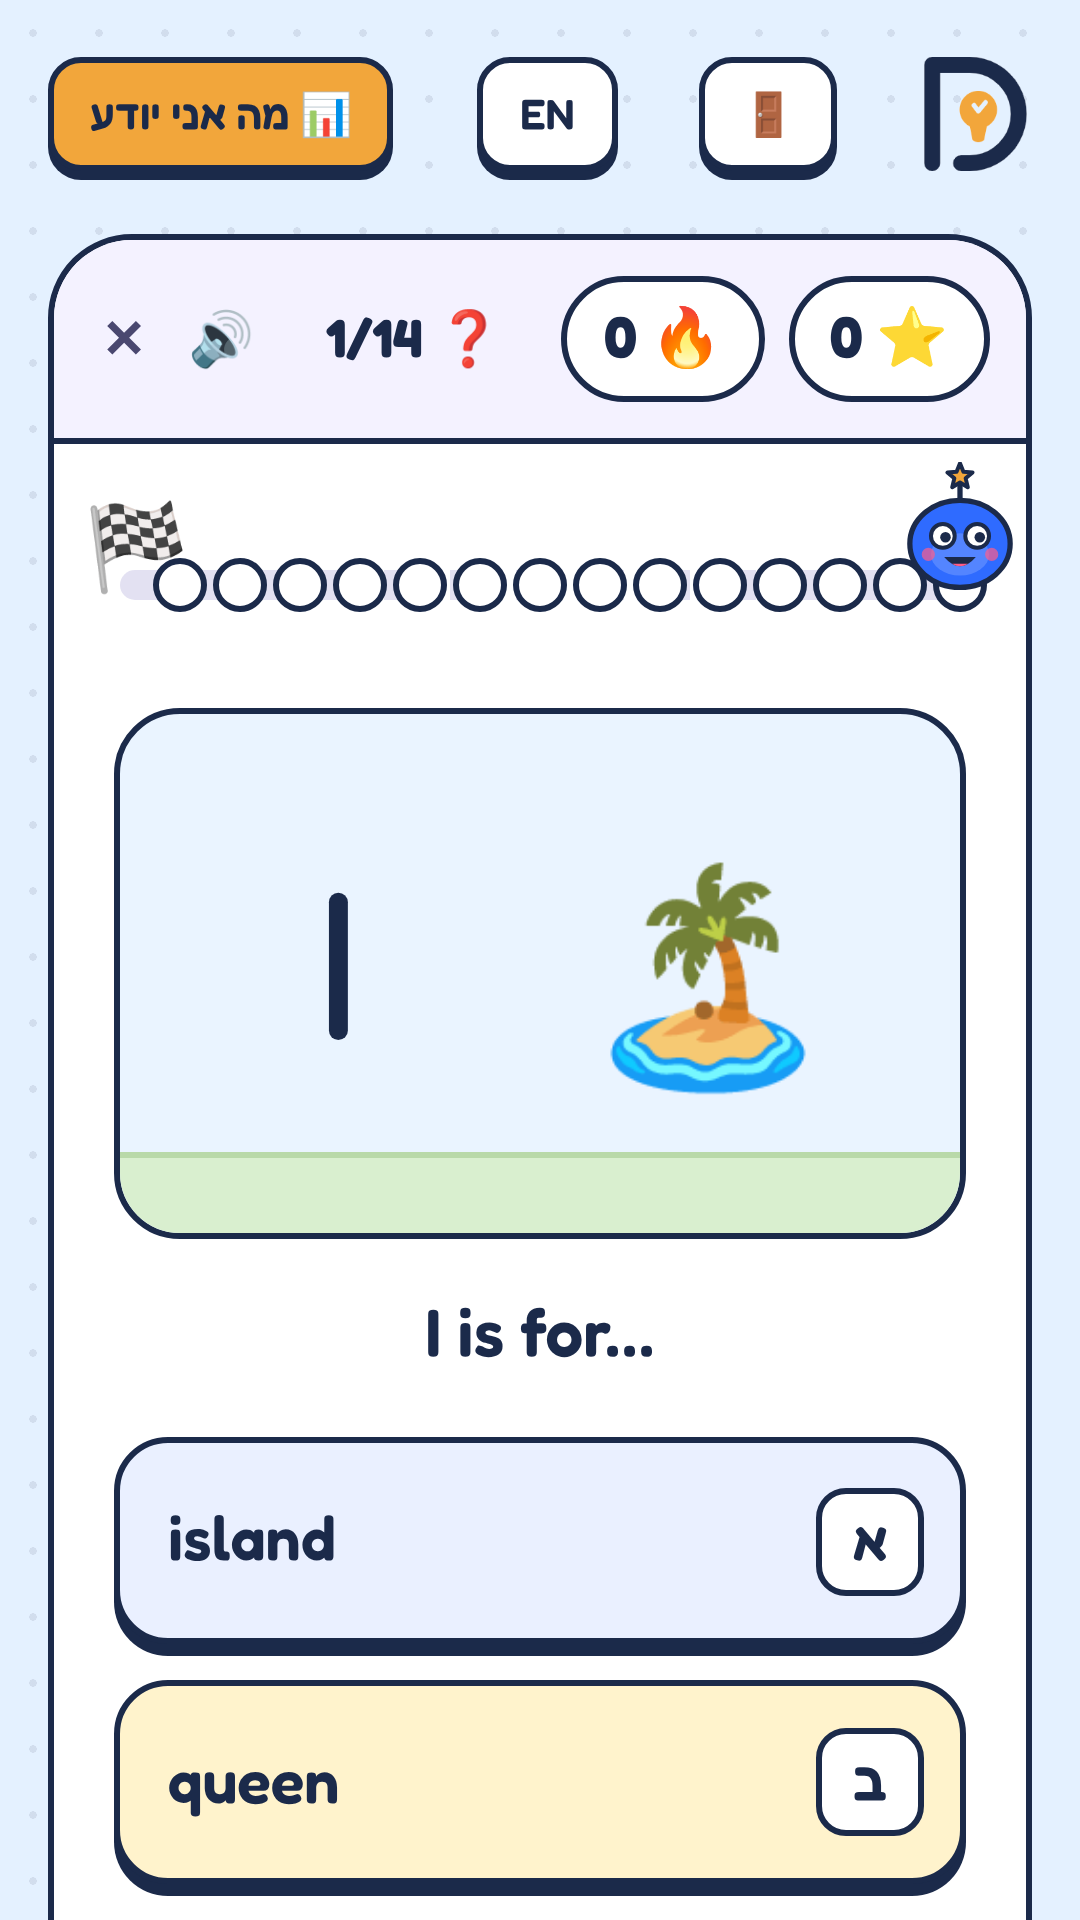
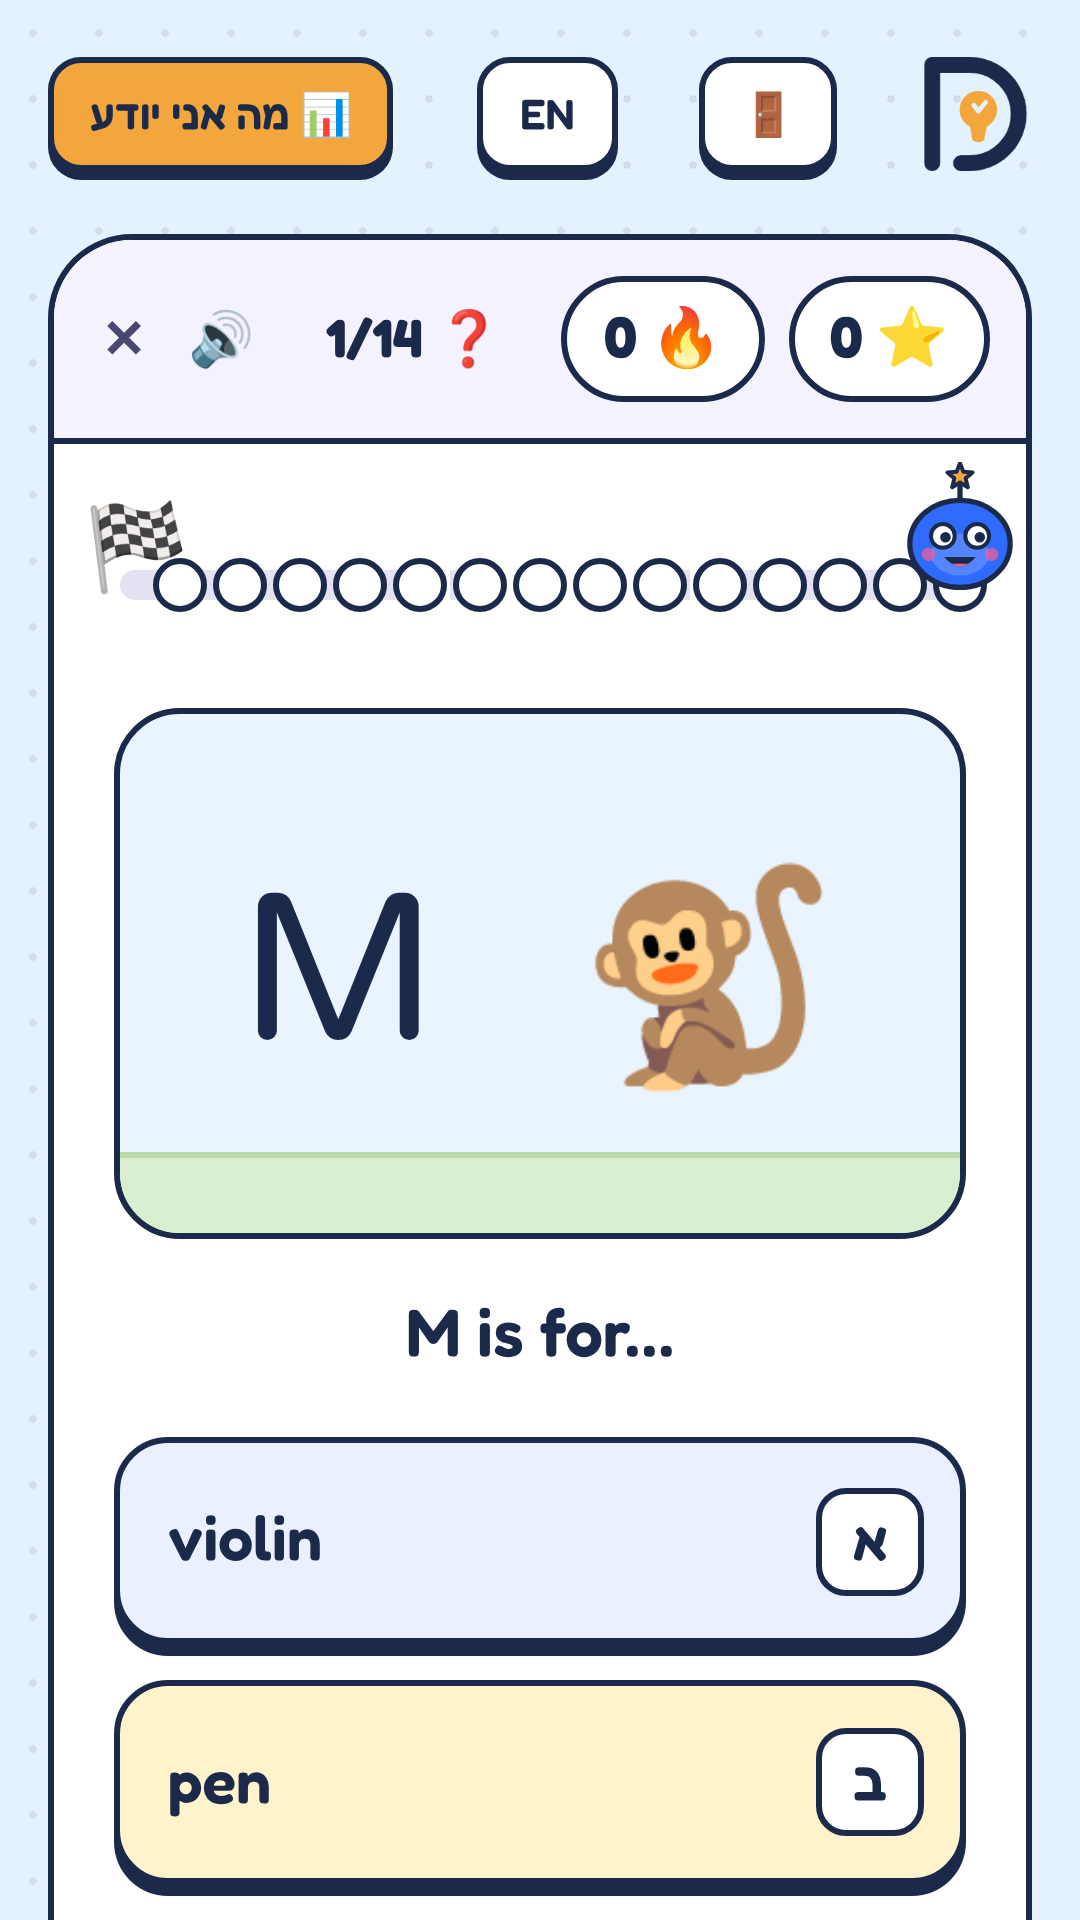
Store images: real math practice set
Claude-Session: https://claude.ai/code/session_018ARCFrnypinXbQosbA2nGK

diff --git a/tools/tests/store_shots2.js b/tools/tests/store_shots2.js
@@ -7,10 +7,6 @@ const EMU = { fs: 'http://127.0.0.1:8080', auth: 'http://127.0.0.1:9099' };
 const q = (topic, question, options, answer, explanation, sc, ch) => ({ topic, question, options, answer, explanation, emoji: sc[0][0],
   scene: sc.map(([e, x, y, s]) => ({ e, x, y, s })), ch });
 const SAMPLES = [
-  { src: 'shot-math', subject: 'מתמטיקה', grade: 3, topics: ['לוח הכפל', 'חילוק'], chapters: [{ title: 'לוח הכפל', topics: ['לוח הכפל'], count: 2 }, { title: 'חילוק', topics: ['חילוק'], count: 1 }],
-    qs: [q('לוח הכפל', '7 × 8 = ?', ['56', '54', '48', '64'], 0, '7 × 8 = 56', [['🧮', 50, 52, 56]], 0),
-         q('לוח הכפל', '6 × 6 = ?', ['36', '12', '30', '42'], 0, '6 × 6 = 36', [['🎲', 50, 52, 56]], 0),
-         q('חילוק', '12 עוגיות ל-3 ילדים. כמה לכל אחד?', ['4', '3', '6', '9'], 0, '12 : 3 = 4', [['🍪', 50, 52, 56]], 1)] },
   { src: 'shot-heb', subject: 'עברית / לשון', grade: 3, topics: ['חלקי דיבר'], chapters: [{ title: 'שם עצם ופועל', topics: ['חלקי דיבר'], count: 2 }],
     qs: [q('חלקי דיבר', 'איזו מילה היא פועל?', ['רץ', 'שולחן', 'יפה', 'כחול'], 0, 'רץ = פעולה, לכן פועל', [['🏃', 50, 52, 56]], 0),
          q('חלקי דיבר', 'איזו מילה היא שם עצם?', ['כלב', 'קופץ', 'גדול', 'מהר'], 0, 'כלב = שם של דבר', [['🐕', 50, 52, 56]], 0)] },
@@ -32,12 +28,13 @@ const SAMPLES = [
   };
   const p = await open('mom', 'אמא של נועה');
   await p.evaluate(async (S) => {
-    kids.push({ id: 'k1', name: 'נועה', grade: 4, color: '#FF5C8A' }, { id: 'k2', name: 'איתי', grade: 2, color: '#2F6BFF' }); saveKids();
+    kids.push({ id: 'k1', name: 'נועה', grade: 6, color: '#FF5C8A' }, { id: 'k2', name: 'איתי', grade: 2, color: '#2F6BFF' }); saveKids();
     for (const x of S) { applyImport({ ...x, examDate: '', dailyGoal: 2 }, kidById('k1')); await new Promise(r => setTimeout(r, 20)); }   // ids are time-based
-    const pl = await loadShare('en4-nov26'); applyImport(pl, kidById('k1'));
+    applyImport(await loadShare('en4-nov26'), kidById('k1')); await new Promise(r => setTimeout(r, 20));
+    applyImport(await loadShare('math7-nov26'), kidById('k1'));
   }, SAMPLES);
   await p.waitForTimeout(2500);
-  await p.evaluate(() => { const s = sets.find(x => x.src === 'en4_nov26' || x.src === 'en4-nov26') || sets.find(x => x.subject === 'אנגלית' && !x.demo);
+  await p.evaluate(() => { const s = sets.find(x => x.subject === 'מתמטיקה' && !x.demo);
     s.examDate = new Date(Date.now() + 6 * 864e5).toISOString().slice(0, 10); store.save();
     const now = Date.now();
     [[0, 11, 12], [1, 12, 13], [2, 9, 12], [3, 5, 12]].forEach(([ch, r, n], i) => history.unshift({ at: now - (5 - i) * 36e5, kidId: 'k1', kid: 'נועה', subject: s.subject, grade: s.grade, setId: s.id, ch, right: r, n, score: r * 10, mode: 'choice',
@@ -54,12 +51,12 @@ const SAMPLES = [
     await p.evaluate(([id, ch]) => { go('kid'); startGame(getSet(id), null, 'choice', ch); }, [id, sub === 'אנגלית' ? 4 : 0]); await shot(name);
   }
   await p.evaluate(() => go('kid')); await shot('s_home');
-  await p.evaluate(id => openRoad(id), await sid('אנגלית')); await shot('s_map', 1500);
+  await p.evaluate(id => openRoad(id), await sid('מתמטיקה')); await shot('s_map', 1500);
   await p.evaluate(() => { go('kid'); activeKid = 'k1'; openMe(); }); await shot('s_me', 1500);
   await p.evaluate(() => go('stats')); await shot('s_parent', 1500);
   await p.reload({ waitUntil: 'load' }); await p.waitForFunction(() => window.SFF_ROLE); await p.waitForTimeout(2500);
   await p.evaluate(() => go('family')); await shot('s_family', 2500);
-  await p.evaluate(() => { go('kids'); openAddDialog('en4-nov26', 'k1'); }); await shot('s_add', 2000);
+  await p.evaluate(() => { go('kids'); openAddDialog('math7-nov26', 'k1'); }); await shot('s_add', 2000);
   await p.evaluate(() => { document.querySelectorAll('dialog[open]').forEach(d => d.close()); openCatalog('k1'); }); await shot('s_catalog', 2500);
   await b.close();
 })().catch(e => { console.error('FAIL', e); process.exit(1); });
